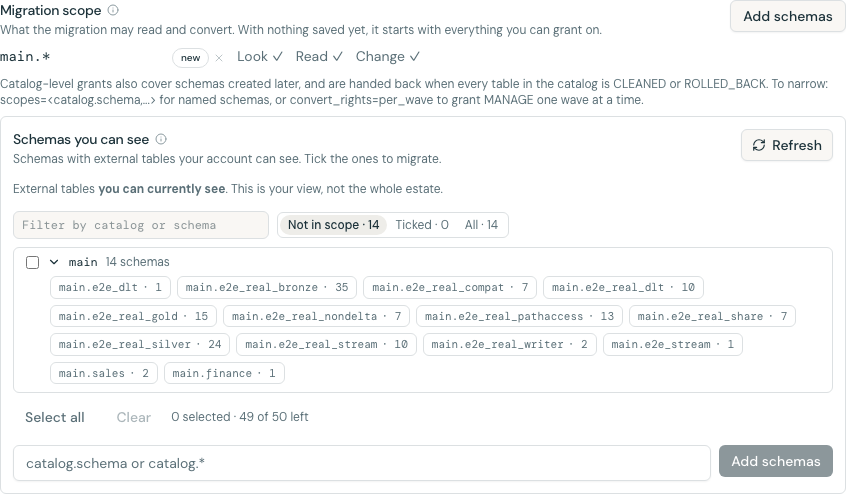
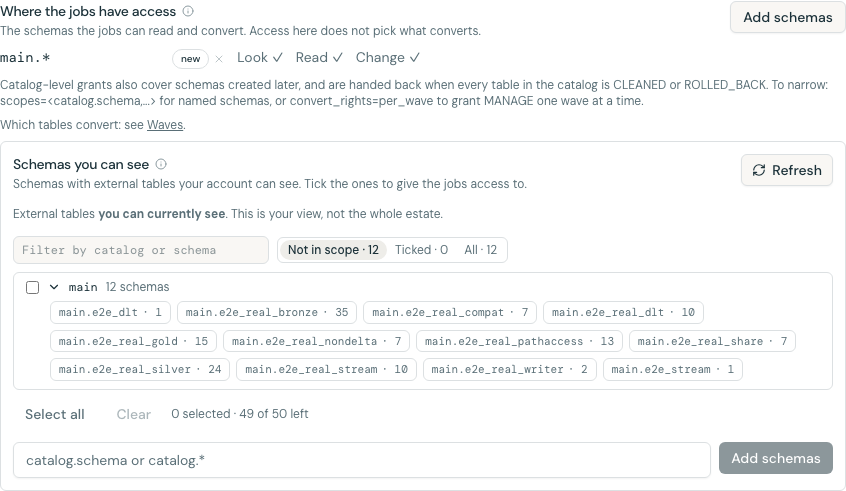
Fix the prod target; relabel Migration scope as Where the jobs have access (#10)
* Fix the prod target: take the workspace from --profile

The prod target set host: ${var.prod_host}, which the CLI refuses
("Variable interpolation is not supported for fields that configure
authentication"), so -t prod could neither validate nor deploy. The
workspace now comes from --profile, as on dev and e2e; prod_host is
removed and make deploy-prod requires PROFILE=. A test guards that no
target interpolates an auth field.

app/README.md drops the AppKit template's apps deploy / apps start
instructions for the bundle deploy, which clears the known-drift notes
in docs/README.md and docs/12-using-the-app.md.

* Relabel Migration scope as Where the jobs have access

The Settings -> Permissions part lists where the jobs' identity holds
Look, Read and Change. Seeded with every catalog you can grant on, its
old title read as the list of what would be migrated, but the profiler
never reads it and nothing converts until a wave is launched. The part
now says so (subtitle and tooltip) and points to Waves; the picker asks
which schemas to give the jobs access to.

Docs follow the new name; settings-permissions and add-schemas
screenshots recaptured on e2e. The migration_scope table and the scopes
option keep their names.

diff --git a/app/client/src/pages/settings/ScopePicker.tsx b/app/client/src/pages/settings/ScopePicker.tsx
@@ -30,7 +30,7 @@ const plural = (n: number, word: string) => (n === 1 ? word : `${word}s`);
 /**
  * The schemas with external tables the signed-in admin can see (their visibility, never "the
  * estate"), grouped by catalog. Ticking one adds it to the Permissions panel's plan; a schema
- * already in the migration scope is shown as covered, never as a tick.
+ * already in the stored scopes is shown as covered, never as a tick.
  */
 export function ScopePicker({
   obo,
@@ -114,8 +114,8 @@ export function ScopePicker({
         {coveredCount > 0 ? (
           <p className="mt-1">
             {coveredCount === scopes.length
-              ? 'Every schema here is already in the migration scope.'
-              : `${coveredCount} of these ${coveredCount === 1 ? 'is' : 'are'} already in the migration scope.`}
+              ? 'Every schema here is already in the jobs’ access.'
+              : `${coveredCount} of these ${coveredCount === 1 ? 'is' : 'are'} already in the jobs’ access.`}
           </p>
         ) : null}
       </div>
@@ -254,7 +254,7 @@ function ScopeChip({ scope, onToggle }: { scope: MergedScope; onToggle: (key: st
   if (scope.covered) {
     return (
       <span
-        aria-label={`${key}, already in the migration scope`}
+        aria-label={`${key}, already in the jobs’ access`}
         className="flex items-center gap-1 rounded-md border border-[var(--success-border)] bg-[var(--success-bg)] px-2 py-0.5 font-mono text-[11px] text-[var(--success-foreground)]"
       >
         <CircleCheck className="size-3" aria-hidden />

diff --git a/app/client/src/lib/sectionCopy.ts b/app/client/src/lib/sectionCopy.ts
@@ -616,13 +616,14 @@ export const SECTION_COPY = {
       technical: 'Set with the jobs_run_as bundle variable or the installer jobs_identity option, then redeploy.',
     },
     permissionsScope: {
-      title: 'Migration scope',
-      subtitle: 'What the migration may read and convert. With nothing saved yet, it starts with everything you can grant on.',
-      technical: 'Remove a row to narrow the plan, or tick more below to add them.',
+      title: 'Where the jobs have access',
+      subtitle: 'The schemas the jobs can read and convert. Access here does not pick what converts.',
+      detail: 'The profiler finds the tables and the wave plan groups them. Nothing converts until you launch a wave.',
+      technical: 'With nothing saved yet, it covers everything you can grant on. Remove a row to narrow, or tick more below to add them.',
     },
     permissionsPicker: {
       title: 'Schemas you can see',
-      subtitle: 'Schemas with external tables your account can see. Tick the ones to migrate.',
+      subtitle: 'Schemas with external tables your account can see. Tick the ones to give the jobs access to.',
       technical: 'Listed with your sign-in, so it shows only what you can see. Ticked schemas join the plan below.',
     },
     permissionsConvert: {

diff --git a/app/client/src/pages/settings/PermissionsPanel.tsx b/app/client/src/pages/settings/PermissionsPanel.tsx
@@ -76,7 +76,7 @@ export function PermissionsPanel({ appPlan }: { appPlan: AppGrantsPlan }) {
     if (window.location.hash === '#permissions') document.getElementById('permissions')?.scrollIntoView();
   }, []);
   const { bumpRefresh } = useCatalog();
-  /** Schemas picked this visit, on top of the stored migration scope (lower case). */
+  /** Schemas picked this visit, on top of the stored scopes (lower case). */
   const [picks, setPicks] = useState<string[]>([]);
   const [convertRights, setConvertRights] = useState<string>('');
   const [view, setView] = useState<PermissionsView | null>(null);
@@ -451,6 +451,13 @@ function ScopePart({ view, busy, picker }: { view: PermissionsView; busy: boolea
         </p>
       )}
       {view.scope_note ? <p className="text-xs text-muted-foreground">{view.scope_note}</p> : null}
+      <p className="text-xs text-muted-foreground">
+        Which tables convert: see{' '}
+        <Link to="/waves" className="underline">
+          Waves
+        </Link>
+        .
+      </p>
       {view.catalog_types_error && view.scopes_from === SCOPES_FROM_ALL ? (
         <p className="text-xs text-muted-foreground">
           Could not read catalog types, so only system, hive_metastore and samples are left out.

diff --git a/app/client/src/lib/permissionsPanel.pure.ts b/app/client/src/lib/permissionsPanel.pure.ts
@@ -270,7 +270,7 @@ export function jobsHeldText(v: Pick<PermissionsView, 'lines' | 'who'>): string 
 export const statusLabel = (status: string): string => (status === STATUS_UNKNOWN ? 'not checked' : status);
 
 /**
- * The `scopes` option for the panel's picks: the stored migration scope plus the new picks,
+ * The `scopes` option for the panel's picks: the stored scopes plus the new picks,
  * de-duplicated in order. '' (no option, so the server uses the stored scope) when nothing is picked.
  */
 export function scopesWithPicks(stored: readonly string[], picks: readonly string[]): string {

diff --git a/app/client/src/pages/settings/grantsPanel.pure.test.ts b/app/client/src/pages/settings/grantsPanel.pure.test.ts
@@ -74,7 +74,7 @@ describe('mergeScopes', () => {
     expect(mergeScopes([{ catalog: 'c', schema: 's', externalTableCount: 2 }], [])[0].selected).toBe(false);
   });
 
-  it('marks a schema already in the migration scope as covered, so Select all skips it', () => {
+  it('marks a schema already in the stored scopes as covered, so Select all skips it', () => {
     const merged = mergeScopes(
       [
         { catalog: 'M', schema: 'stored', externalTableCount: 3 },

diff --git a/app/client/src/pages/settings/grantsPanel.pure.ts b/app/client/src/pages/settings/grantsPanel.pure.ts
@@ -17,7 +17,7 @@ export interface MergedScope extends Scope {
   /** External tables the admin can see in it; null for a picked scope the scan did not list. */
   externalTableCount: number | null;
   selected: boolean;
-  /** Already in the stored migration scope, so the plan includes it whatever is ticked. */
+  /** Already in the stored scopes, so the plan includes it whatever is ticked. */
   covered: boolean;
 }
 

diff --git a/backend/src/tests/test_docs_install.py b/backend/src/tests/test_docs_install.py
@@ -59,6 +59,16 @@ def test_dev_target_takes_the_workspace_from_the_profile_or_git_folder():
     assert "warehouse_id" in dev["variables"]
 
 
+def test_no_target_interpolates_an_auth_field():
+    # The CLI resolves auth before variables: "Variable interpolation is not supported for
+    # fields that configure authentication", so `host: ${var.x}` can neither validate nor deploy.
+    for name, target in _bundle()["targets"].items():
+        workspace = target.get("workspace") or {}
+        assert "host" not in workspace, name
+        assert not any("${" in str(v) for k, v in workspace.items() if k != "root_path"), name
+    assert "prod_host" not in _bundle()["variables"]
+
+
 def test_dashboard_dataset_follows_the_control_schema():
     variables = _bundle()["variables"]
     assert variables["dataset_catalog"]["default"] == "${var.manifest_catalog}"

diff --git a/docs/00-installation.md b/docs/00-installation.md
@@ -176,7 +176,9 @@ With `data_mode=real` (the default) the apply waits for `job_99_setup` and the p
 expect 30 to 45 minutes, even for a few schemas. `MTM_DATA_MODE=none` skips the profiling, so the
 apply finishes in a few minutes; run the profiler later from the app.
 
-For production, set `prod_host`, then `databricks bundle deploy -t prod`. The jobs run as you
+For production, deploy with the production workspace's profile:
+`databricks bundle deploy -t prod --profile <prod-profile>`, and pass the same `-t prod --profile`
+to the installer. The jobs run as you
 there too: anyone who can start them runs them with your access, which the installer says on the
 jobs' identity line. To use a service principal instead, run the installer with
 `jobs_identity=sp:<application-id>` and redeploy. Runs are approved through job-run permissions
@@ -209,11 +211,12 @@ profiling finishes, **Overview** shows your estate and the recommended next step
 
 The app takes over once the first install has run. After the first install, **Connection & policy → Permissions** shows the same check, the stored
 scopes with their live status, and the plan, for the signed-in admin. With nothing stored yet,
-**Migration scope** starts with every catalog you can grant on, as rows you can remove to narrow.
+**Where the jobs have access** starts with every catalog you can grant on, as rows you can remove to narrow.
+It grants access only: the profiler finds the tables, and the waves decide what converts.
 **Add schemas** widens the scope; **Grant** runs the plan as you, with your own rights, after a confirm that lists every
 statement. Lines you cannot grant name who can, with a **Copy request**.
 
-![Settings → Permissions: the rights check, who runs the jobs (you), the migration scope starting with every catalog you can grant on and its Look, Read and Change status, convert rights, and the plan with nothing missing](images/install/app/settings-permissions.png)
+![Settings → Permissions: the rights check, who runs the jobs (you), where the jobs have access, starting with every catalog you can grant on and its Look, Read and Change status, convert rights, and the plan with nothing missing](images/install/app/settings-permissions.png)
 
 When you deployed the jobs, you own them, so **Who runs the jobs** reads the run permission as held
 without asking for it:
@@ -224,7 +227,7 @@ Before the first profile, **Convert rights** has no tables to check yet and offe
 
 ![Convert rights before profiling: all at once, handed back at the end, the jobs hold MANAGE on the catalog, and No tables profiled yet with Run the profiler](images/install/app/convert-rights-empty.png)
 
-![Add schemas: the schemas with external tables you can see, grouped by catalog with table counts, and a box for catalog.schema or catalog.*](images/install/app/add-schemas.png)
+![Add schemas under Where the jobs have access: the schemas with external tables you can see, grouped by catalog with table counts, and a box for catalog.schema or catalog.*](images/install/app/add-schemas.png)
 
 When the jobs run as a service principal (`jobs_identity=sp:<application-id>`), the plan lists what
 it still needs, and **Grant** gives it:
@@ -532,7 +535,7 @@ backticks; a display name grants nothing), shown on the app's page in the worksp
 The app's **Settings** page (**Connection & policy**) has two panels, one per identity:
 
 - **Permissions** is for the migration jobs. It checks, grants and hands back as the signed-in admin
-  ([Carry on in the app](#carry-on-in-the-app)). Its **Migration scope** part lists the schemas with
+  ([Carry on in the app](#carry-on-in-the-app)). Its **Where the jobs have access** part lists the schemas with
   external tables you can see: tick a schema (or type one) and its grants join the plan straight
   away, so you can grant access before the first profiler run. Nothing is ticked for you. The list
   is your visibility, not the whole estate: the profiler finds the authoritative set once the grants
@@ -561,7 +564,6 @@ them again:
 | `catalog_filter` / `schema_filter` | `*` / `*` | Glob filters that limit which catalogs and schemas the profiler scans. |
 | `workspace_id` | blank | Your workspace ID, so links from the app open in the right workspace. Optional. |
 | `jobs_run_as` | the deployer | Who every stage job runs as: `{service_principal_name: …}`, `{group_name: …}` or `{user_name: …}`. A complex variable: set it in the target or `.databricks/bundle/<target>/variable-overrides.json` (the installer's `jobs_identity` option writes it), not `BUNDLE_VAR_*`. Required when a service principal deploys. |
-| `prod_host` | placeholder | `prod` target only: the prod workspace URL. |
 | `prod_root_path` | `/Shared/.bundle/<bundle>/prod` | `prod` target only: the deployment folder. The default keeps existing installs in place. For a new install pick a folder only the deployers can edit; the installer warns when every workspace user can edit it. |
 | `mcp_tier` | `v2` | What Genie Code may do through the app: `v2` adds the gated tools that change things; `v1` is reads and non-mutating stages only. |
 | `telemetry_enabled` | `true` | `false` to turn off usage telemetry (see below). |

diff --git a/CHANGELOG.md b/CHANGELOG.md
@@ -112,7 +112,7 @@ release may change job parameters or control-table columns; every such change is
 
 - **The e2e control-plane wipe empties every control table.** `--wipe-control-plane` now also
   empties `convert_authority` and `migration_scope`, so a fresh install no longer shows old convert
-  rights or the old migration scope.
+  rights or old stored scopes.
 - **Settings → Permissions explains a sign-in with no SQL access.** When your sign-in to the app
   has no `sql` scope (it predates the app asking for it), the panel now says so and how to fix it
   (open the app in a new private window and approve the prompt). It no longer shows `can't read` on
@@ -133,6 +133,13 @@ release may change job parameters or control-table columns; every such change is
   `information_schema` views (reported as `EXTERNAL`, format `UNITY_CATALOG`) as tables to
   migrate. Both discovery queries now exclude that schema.
 
+- **The `prod` target deploys.** It set `host: ${var.prod_host}`, which the CLI refuses
+  ("Variable interpolation is not supported for fields that configure authentication"), so
+  `-t prod` could neither validate nor deploy. The workspace now comes from `--profile`, as on
+  `dev` and `e2e`: `databricks bundle deploy -t prod --profile <prod-profile>`. The `prod_host`
+  variable is gone (remove it from any `BUNDLE_VAR_prod_host` export), and `make deploy-prod`
+  requires `PROFILE=`.
+
 - **Settings → Permissions reads more accurately.** A saved `catalog.*` scope covers every schema
   of that catalog in **Add schemas**, so they are not offered again. Convert rights says "All N
   tables still to convert are authorized" when none is blocked, instead of empty counts. The toast
@@ -149,6 +156,9 @@ release may change job parameters or control-table columns; every such change is
   stops with NO-GO and both fixes (keep the old identity, or move to the new one), instead of
   granting a second identity silently. If your prod jobs ran as a service principal, keep it with
   `jobs_identity=sp:<application-id>` before you redeploy.
+- **Settings → Permissions → Where the jobs have access** (was Migration scope). The part lists
+  where the jobs can read and convert, and now says that this grants access only: the profiler
+  finds the tables, and nothing converts until you launch a wave. A line under it points to Waves.
 - **Blank scopes cover your catalogs.** `scopes` takes the new token `all`, and a blank value with
   no stored scopes now means `all`: every catalog with external tables you can grant on, as
   `catalog.*`, or the schemas you can grant on where you cannot grant on the whole catalog
@@ -181,7 +191,7 @@ release may change job parameters or control-table columns; every such change is
 - **Settings has one grant panel per identity.** "Permissions the app needs" is now **The app's
   own access**: the app service principal's control-table grants, checked and copyable. Its
   copy-paste grants for the jobs identity duplicated the Permissions plan and are gone; its schema
-  picker moved into Permissions → Migration scope, where a ticked schema joins the plan directly,
+  picker moved into Permissions → Where the jobs have access, where a ticked schema joins the plan directly,
   and the per-table convert permission summary and script moved into Convert rights. Picks are no
   longer saved in the browser. `GET /api/grants/plan` takes `tier2=0` to skip the per-schema reads;
   without it the response is unchanged (the MCP tool `mtm_get_grants_plan` still gets Tier 2).

diff --git a/docs/12-using-the-app.md b/docs/12-using-the-app.md
@@ -31,9 +31,10 @@ button, backed by the Genie space).
 **Permissions** (`/settings#permissions`, under **Connection & policy**) carries on after the first
 install, which runs from the notebook or the CLI. It runs the same rights check and grant plan as
 they do, for the signed-in admin, and every grant runs **as you** (your forwarded sign-in, never the app's identity),
-after a confirm that lists each statement and pins the previewed `plan_id`. With nothing stored yet, the
-migration scope starts with every catalog you can grant on, as rows you can remove to narrow. From there you
-can tick more schemas you can see into the migration scope, switch convert rights between all at once and per wave, and hand
+after a confirm that lists each statement and pins the previewed `plan_id`. With nothing stored yet,
+**Where the jobs have access** starts with every catalog you can grant on, as rows you can remove to narrow.
+It grants access only and does not pick what converts: the profiler finds the tables and **Waves** decides
+what converts. From there you can tick more schemas you can see into it, switch convert rights between all at once and per wave, and hand
 convert rights back. Lines you cannot grant name who can, with **Copy request**. When a stored scope
 or the control plane is missing a grant, a banner on every page links here. The convert gate offers
 **Grant convert rights** for a per-wave install, and the runbook's **Hand back convert rights** rows
@@ -43,7 +44,7 @@ private window and approve the sign-in prompt to grant from the app. Below it, *
 access** checks the app service principal's control-table grants. Step by step, with screenshots:
 [Installation](./00-installation.md#carry-on-in-the-app).
 
-![Settings → Permissions: the rights check, who runs the jobs (you), the migration scope starting with every catalog you can grant on and its Look, Read and Change status, convert rights, and the plan with nothing missing](images/install/app/settings-permissions.png)
+![Settings → Permissions: the rights check, who runs the jobs (you), where the jobs have access, starting with every catalog you can grant on and its Look, Read and Change status, convert rights, and the plan with nothing missing](images/install/app/settings-permissions.png)
 
 Until the profiler has run, **Convert rights** has no tables to check and offers **Run the profiler**:
 
@@ -159,9 +160,8 @@ not run standalone `databricks apps deploy`, and do not restart the app with
 on `MIGRATION_CATALOG`). To restart, re-run `databricks bundle deploy -t <target>`. A freshly
 written `genie_space_id` needs no restart: the app looks it up per request.
 
-> Note the known drift: `app/README.md` has local `apps deploy` wording. The truth is that the
-> root bundle owns deploy, and the root `databricks.yml` intentionally has no `artifacts:` block
-> (the Apps platform rebuilds `dist/`). See [Architecture](./02-architecture.md#one-bundle-two-directories).
+The root `databricks.yml` intentionally has no `artifacts:` block: the Apps platform rebuilds
+`dist/`. See [Architecture](./02-architecture.md#one-bundle-two-directories).
 
 For the full page-by-page reads/writes/triggers, the safety requirements (SR1-SR14), and the
 convert-gate spec, read [`app/docs/control_plane.md`](../app/docs/control_plane.md).

diff --git a/backend/docs/install-and-permissions.md b/backend/docs/install-and-permissions.md
@@ -182,14 +182,14 @@ three go to the identity the jobs run as.
 
 Why **Read** cannot be avoided: `SET MANAGED` needs `SELECT` + `MODIFY` unless the identity owns the
 table (`authority.py`, pinned by `convert_authority_cases.json`). Anything the tool will convert
-needs `SELECT` anyway, so granting it to the migration scope at install adds no access the convert
+needs `SELECT` anyway, so granting it on the granted scopes at install adds no access the convert
 would not need.
 
 Why **Change** is granted once, at install, by default: the only convert right a person must grant
 is `MANAGE` (or ownership, which the tool never changes). `MANAGE` lets its holder grant any
 privilege on the schema, so a job can never give it to itself; once it is held, Authorize
-(`job_03d`) grants the `MODIFY` it still needs and `07` revokes it. Granting it once for the whole
-migration scope means one approval, no person between waves, and one hand-back at the end. The
+(`job_03d`) grants the `MODIFY` it still needs and `07` revokes it. Granting it once for all the
+granted scopes means one approval, no person between waves, and one hand-back at the end. The
 trade-off is a wider standing right: the jobs' identity holds `MANAGE` on schemas that may not
 convert for weeks. Every convert is still gated by the dry run, the wave pin and the live
 `convert_authority` re-check in `04`, so holding the right does not convert anything by itself.
@@ -1247,7 +1247,7 @@ principal's control-table grants:
 1. **Can you grant here?** The rights and coverage report for the signed-in user.
 2. **Who runs the jobs.** The jobs' identity, its kind and warnings; **Change** opens the command
    generator (section 5), never an in-app change.
-3. **Migration scope.** The stored scopes with door, who and when, and per-set status
+3. **Where the jobs have access.** The stored scopes with door, who and when, and per-set status
    (`present` / `missing` / `not checked`), plus **Add schemas** (the "Schemas you can see"
    picker of the external tables the signed-in admin can see, and a typed input).
 4. **Convert rights.** All at once or per wave, the schemas holding `MANAGE` from the tool,
@@ -1284,7 +1284,7 @@ stateDiagram-v2
 │                                                                             │
 │ Who runs the jobs     mtm-jobs · service principal · all 24 jobs   [Change] │
 │                                                                             │
-│ Migration scope                                              [Add schemas]  │
+│ Where the jobs have access                                   [Add schemas]  │
 │   sales.*          CLI · alice · Oct 26     Control ✓ Look ✓ Read ✓ Change ✓ │
 │   finance.orders   CLI · alice · Oct 26     Control ✓ Look ✓ Read ✓ Change ✓ │
 │   finance.billing  app · bob   · Nov 12     Read missing · Change missing    │

diff --git a/app/README.md b/app/README.md
@@ -62,7 +62,7 @@ client_secret = prod-client-secret
 Deploy using a specific profile:
 
 ```bash
-databricks bundle deploy --profile production
+databricks bundle deploy -t prod --profile production
 ```
 
 **Note:** Personal Access Tokens (PATs) are legacy authentication. OAuth is strongly recommended for better security.
@@ -125,39 +125,23 @@ npm run format:fix
 
 ## Deployment with Databricks Asset Bundles
 
-### 1. Configure Bundle
-
-Update `databricks.yml` with your workspace settings:
-
-```yaml
-targets:
-  default:
-    workspace:
-      host: https://your-workspace.cloud.databricks.com
-```
-
-Make sure to replace all placeholder values in `databricks.yml` with your actual resource IDs.
-
-### 2. Deploy
-
-Deploy and start the app with a single command:
+The app is part of the repository's one bundle: the root `databricks.yml` includes
+`app/resources/app.yml`, and no bundle file lives in `app/`. Deploy from the repository root, which
+deploys the jobs, the dashboard and the app together; the Apps platform builds the app at deploy
+time. The workspace comes from `--profile`.
 
 ```bash
-databricks apps deploy
+export BUNDLE_VAR_warehouse_id=<warehouse-id>
+databricks bundle deploy -t dev --profile <profile>
+# Production:
+databricks bundle deploy -t prod --profile <prod-profile>
 ```
 
-`databricks apps deploy` validates the project, deploys it, starts the app, and prints its URL.
+Do not run `databricks apps deploy`: the bundle owns the app's lifecycle. Then run the installer;
+see [Installation](../docs/00-installation.md).
 
-### Deploy to Production
-
-1. Configure the production target in `databricks.yml`
-2. Deploy to production:
-
-```bash
-databricks apps deploy -t prod
-```
-
-> **Restarting a stopped app:** apps stop after a period of inactivity. To start one again without redeploying, run `databricks apps start <APP_NAME>`.
+To restart the app, run `databricks bundle deploy` again. `databricks apps stop/start` drops the
+bundle's `config.env`, and the app then fails at boot.
 
 ## Project Structure
 
